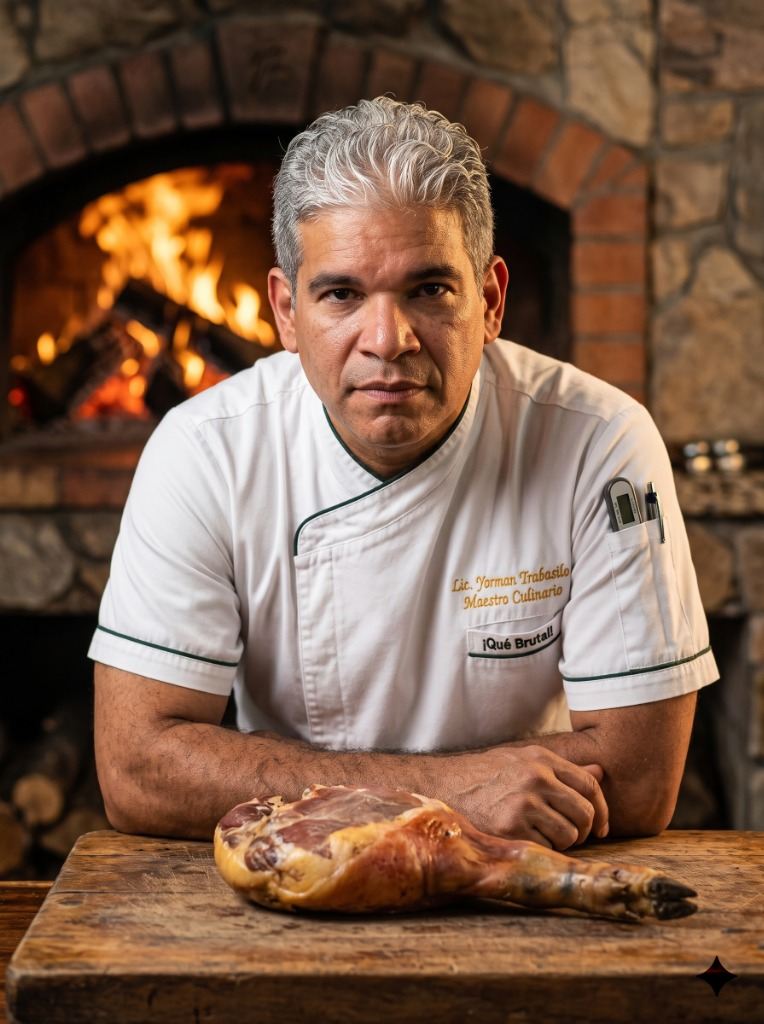
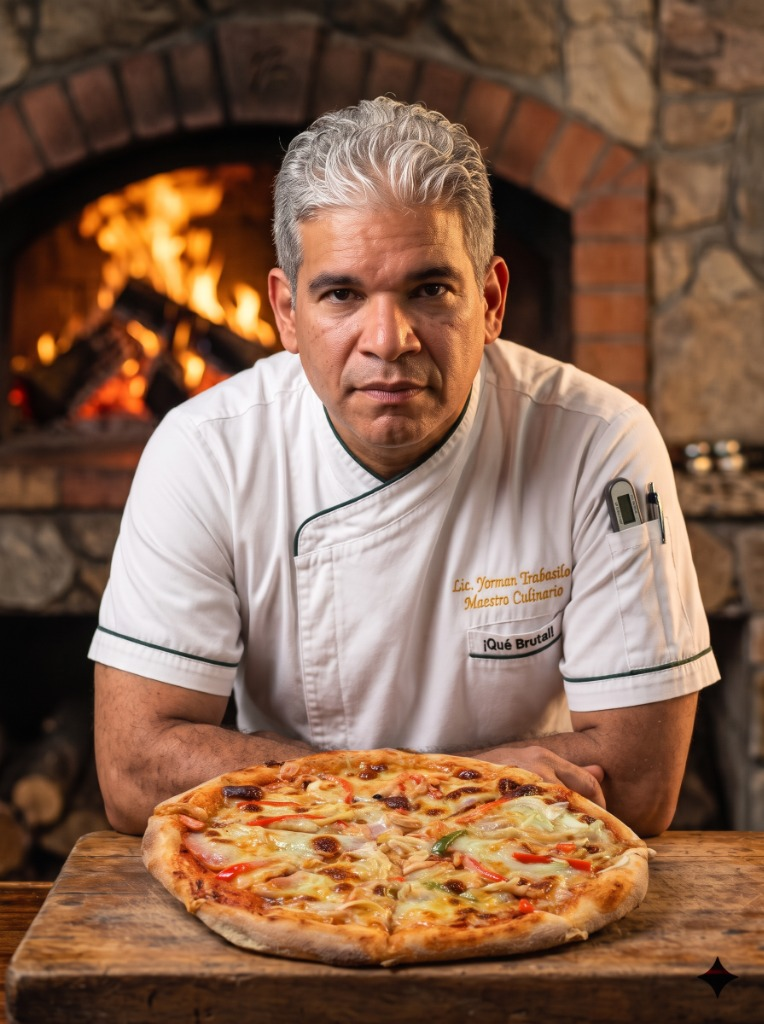
feat(hero): actualizar retrato principal del chef con pizza artesanal

diff --git a/index.html b/index.html
@@ -177,7 +177,7 @@
               <!-- Marco de la Fotografía Nítida a Resolución Calibrada (764x1024) -->
               <div class="relative aspect-[3/4] w-full overflow-hidden">
                 <img id="hero-portrait-img" 
-                     src="assets/images/chef_filipina_blanca.jpg" 
+                     src="assets/images/chef_filipina_blanca.jpg?v=20261026_pizza" 
                      alt="Lic. Yorman Trabasilo - Chef Profesional & Maestro Culinario" 
                      class="w-full h-full object-cover object-top cinematic-portrait transition-transform duration-700 group-hover:scale-102">
               </div>
